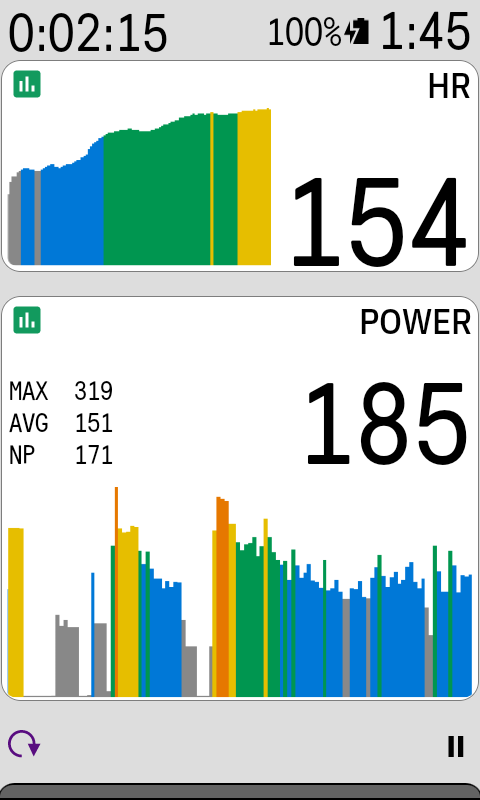
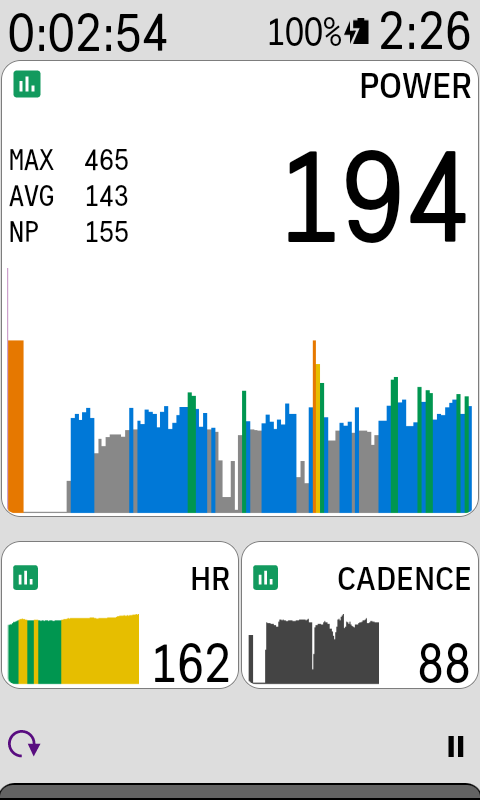
Add cadence and speed graphs

diff --git a/app/src/main/kotlin/com/anthonycastiglia/karoo/powergraph/data/GraphField.kt b/app/src/main/kotlin/com/anthonycastiglia/karoo/powergraph/data/GraphField.kt
@@ -1,8 +1,10 @@
 package com.anthonycastiglia.karoo.powergraph.data
 
 import androidx.annotation.StringRes
+import com.anthonycastiglia.karoo.powergraph.R.string.field_cadence
 import com.anthonycastiglia.karoo.powergraph.R.string.field_heart_rate
 import com.anthonycastiglia.karoo.powergraph.R.string.field_power
+import com.anthonycastiglia.karoo.powergraph.R.string.field_speed
 import com.anthonycastiglia.karoo.powergraph.datatype.GraphScale
 import io.hammerhead.karooext.models.DataType
 import io.hammerhead.karooext.models.UserProfile
@@ -19,7 +21,9 @@ import kotlinx.coroutines.flow.Flow
  * field's preference keys. [aggregationDataTypes] holds a ride-wide stat stream for each
  * [Aggregation] the metric has, and only those are offered or shown. [zones] picks the field's
  * zones from the rider's profile, null for a metric without zones. [smoothing] is null for a
- * field whose current value is never smoothed.
+ * field whose current value is never smoothed. [displayFactor] converts the field's values from
+ * the units Karoo streams them in to the ones the rider sees, chosen from their profile; null
+ * for a metric shown as streamed. [scale] and [previewSource] are in the displayed units.
  */
 class GraphField(
     val typeId: String,
@@ -27,8 +31,9 @@ class GraphField(
     @StringRes val label: Int,
     val dataType: String,
     val aggregationDataTypes: Map<Aggregation, String>,
-    val zones: ((UserProfile) -> List<UserProfile.Zone>)?,
-    val smoothing: SmoothingOptions?,
+    val zones: ((UserProfile) -> List<UserProfile.Zone>)? = null,
+    val smoothing: SmoothingOptions? = null,
+    val displayFactor: ((UserProfile) -> Double)? = null,
     val scale: GraphScale,
     val previewSource: Flow<Double>,
 )
@@ -66,5 +71,42 @@ val GRAPH_FIELDS = listOf(
         smoothing = null,
         scale = GraphScale(floor = 40.0, minSpan = 60.0),
         previewSource = randomWalk(start = 120.0, min = 45.0, max = 190.0, maxStepSize = 2.0),
-    )
+    ),
+    GraphField(
+        typeId = "cadence-graph",
+        settingsKey = "cadence",
+        label = field_cadence,
+        dataType = DataType.Type.CADENCE,
+        aggregationDataTypes = mapOf(
+            Aggregation.MAX to DataType.Type.MAX_CADENCE,
+            Aggregation.AVERAGE to DataType.Type.AVERAGE_CADENCE,
+        ),
+        smoothing = SmoothingOptions(seconds = listOf(1, 3, 10, 30), defaultSeconds = 1),
+        scale = GraphScale(floor = 0.0, minSpan = 60.0),
+        previewSource = randomDoubles(min = 0.0, max = 120.0),
+    ),
+    GraphField(
+        typeId = "speed-graph",
+        settingsKey = "speed",
+        label = field_speed,
+        dataType = DataType.Type.SPEED,
+        aggregationDataTypes = mapOf(
+            Aggregation.MAX to DataType.Type.MAX_SPEED,
+            Aggregation.AVERAGE to DataType.Type.AVERAGE_SPEED,
+        ),
+        displayFactor = ::speedDisplayFactor,
+        scale = GraphScale(floor = 0.0, minSpan = 20.0),
+        previewSource = randomWalk(start = 25.0, min = 10.0, max = 45.0, maxStepSize = 1.5),
+    ),
 )
+
+
+private const val METERS_PER_SECOND_TO_KMH = 3.6
+private const val METERS_PER_SECOND_TO_MPH = 2.236936
+
+/** Karoo streams speed in m/s; riders see km/h or mph, per their profile's distance unit. */
+private fun speedDisplayFactor(profile: UserProfile): Double =
+    when (profile.preferredUnit.distance) {
+        UserProfile.PreferredUnit.UnitType.IMPERIAL -> METERS_PER_SECOND_TO_MPH
+        else -> METERS_PER_SECOND_TO_KMH
+    }

diff --git a/app/src/main/kotlin/com/anthonycastiglia/karoo/powergraph/extension/PowerGraphExtension.kt b/app/src/main/kotlin/com/anthonycastiglia/karoo/powergraph/extension/PowerGraphExtension.kt
@@ -6,11 +6,13 @@ import com.anthonycastiglia.karoo.powergraph.data.PowerGraphSettings
 import com.anthonycastiglia.karoo.powergraph.datatype.ScrollingGraphDataType
 import io.hammerhead.karooext.KarooSystemService
 import io.hammerhead.karooext.extension.KarooExtension
+import io.hammerhead.karooext.models.StreamState
 import io.hammerhead.karooext.models.UserProfile
 import kotlinx.coroutines.CoroutineScope
 import kotlinx.coroutines.Dispatchers
 import kotlinx.coroutines.SupervisorJob
 import kotlinx.coroutines.cancel
+import kotlinx.coroutines.flow.Flow
 import kotlinx.coroutines.flow.map
 
 class PowerGraphExtension : KarooExtension("powergraph", "1.0") {
@@ -20,18 +22,24 @@ class PowerGraphExtension : KarooExtension("powergraph", "1.0") {
 
     override val types by lazy { GRAPH_FIELDS.map(::dataTypeFor) }
 
-    /** [field]'s data type, with its Karoo stream ids opened as flows and its settings wired in. */
+    /**
+     * [field]'s data type, with its Karoo stream ids opened as flows, converted to the displayed
+     * units where [GraphField.displayFactor] says so, and its settings wired in.
+     */
     private fun dataTypeFor(field: GraphField): ScrollingGraphDataType {
         val fieldSettings = settings.forField(field)
+        fun displayStream(dataType: String): Flow<StreamState> {
+            val stream = karooSystem.streamDataFlow(dataType)
+            val displayFactor = field.displayFactor ?: return stream
+            return stream.scaledBy(karooSystem.consumerFlow<UserProfile>().map { displayFactor(it) })
+        }
         return ScrollingGraphDataType(
             extension = extension,
             typeId = field.typeId,
-            dataSource = karooSystem.streamDataFlow(field.dataType),
+            dataSource = displayStream(field.dataType),
             previewSource = field.previewSource,
             scale = field.scale,
-            aggregationSources = field.aggregationDataTypes.mapValues { (_, dataType) ->
-                karooSystem.streamDataFlow(dataType)
-            },
+            aggregationSources = field.aggregationDataTypes.mapValues { (_, dataType) -> displayStream(dataType) },
             aggregations = fieldSettings.aggregations,
             zonesSource = field.zones?.let { zones -> karooSystem.consumerFlow<UserProfile>().map { zones(it) } },
             zoneColorsEnabled = fieldSettings.zoneColors,

diff --git a/app/src/test/kotlin/com/anthonycastiglia/karoo/powergraph/data/ExtensionInfoTest.kt b/app/src/test/kotlin/com/anthonycastiglia/karoo/powergraph/data/ExtensionInfoTest.kt
@@ -1,0 +1,37 @@
+package com.anthonycastiglia.karoo.powergraph.data
+
+import java.io.File
+import javax.xml.parsers.DocumentBuilderFactory
+import org.junit.Assert.assertEquals
+import org.junit.Test
+
+/**
+ * Karoo lists a data field in the profile editor only if extension_info.xml declares it, while the
+ * extension and settings screen build theirs from [GRAPH_FIELDS]. Android resources can't be
+ * generated from Kotlin, so this keeps the two in step: adding a [GraphField] without its XML
+ * entry, or the reverse, fails here instead of on the device.
+ */
+class ExtensionInfoTest {
+
+    @Test
+    fun extensionInfoDeclaresExactlyTheGraphFields() {
+        assertEquals(
+            "typeIds in GRAPH_FIELDS vs. $EXTENSION_INFO_PATH",
+            GRAPH_FIELDS.map { it.typeId }.toSortedSet(),
+            declaredTypeIds().toSortedSet(),
+        )
+    }
+
+    private fun declaredTypeIds(): List<String> {
+        val dataTypes = DocumentBuilderFactory.newInstance()
+            .newDocumentBuilder()
+            .parse(File(EXTENSION_INFO_PATH))
+            .getElementsByTagName("DataType")
+        return (0 until dataTypes.length).map { dataTypes.item(it).attributes.getNamedItem("typeId").nodeValue }
+    }
+
+    private companion object {
+        /** Relative to the app module, the working directory Gradle runs unit tests in. */
+        const val EXTENSION_INFO_PATH = "src/main/res/xml/extension_info.xml"
+    }
+}

diff --git a/app/src/main/kotlin/com/anthonycastiglia/karoo/powergraph/extension/Extensions.kt b/app/src/main/kotlin/com/anthonycastiglia/karoo/powergraph/extension/Extensions.kt
@@ -8,6 +8,7 @@ import kotlinx.coroutines.channels.awaitClose
 import kotlinx.coroutines.channels.trySendBlocking
 import kotlinx.coroutines.flow.Flow
 import kotlinx.coroutines.flow.callbackFlow
+import kotlinx.coroutines.flow.combine
 
 fun KarooSystemService.streamDataFlow(dataTypeId: String): Flow<StreamState> {
     return callbackFlow {
@@ -30,3 +31,18 @@ inline fun <reified T : KarooEvent> KarooSystemService.consumerFlow(): Flow<T> {
         }
     }
 }
+
+/**
+ * These states with every streamed value multiplied by the latest [factor], for converting a
+ * stream to the units the rider sees. Waits for the first factor; states that carry no value
+ * pass through unchanged.
+ */
+fun Flow<StreamState>.scaledBy(factor: Flow<Double>): Flow<StreamState> =
+    combine(factor) { state, multiplier ->
+        when (state) {
+            is StreamState.Streaming -> state.copy(
+                dataPoint = state.dataPoint.copy(values = state.dataPoint.values.mapValues { it.value * multiplier }),
+            )
+            else -> state
+        }
+    }

diff --git a/CLAUDE.md b/CLAUDE.md
@@ -1,6 +1,6 @@
 # PowerGraph
 
-Karoo (Hammerhead bike computer) extension app, built from the `karoo-ext` template repo. Adds two graphical ride data fields — `power-graph` and `heart-rate-graph` — both scrolling bar graphs colored by training zone, implemented as one reusable `ScrollingGraphDataType`.
+Karoo (Hammerhead bike computer) extension app, built from the `karoo-ext` template repo. Adds graphical ride data fields — `power-graph`, `heart-rate-graph`, `cadence-graph` and `speed-graph`, as listed in `GRAPH_FIELDS` — all scrolling bar graphs, colored by training zone where the metric has zones, implemented as one reusable `ScrollingGraphDataType`.
 
 ## Why
 
@@ -9,7 +9,7 @@ Karoo has no built-in scrolling graph field for power or heart rate; this extens
 ## Structure
 
 - `app/src/main/kotlin/.../SettingsActivity.kt`, `screens/SettingsScreen.kt` — settings screen for the data fields, opened from the Karoo's app drawer (it's the launcher activity). One section per `GRAPH_FIELDS` entry, reading and writing straight through to `PowerGraphSettings`. See `docs/projects/settings-activity.md`.
-- `app/src/main/kotlin/.../data/GraphField.kt` — `GRAPH_FIELDS`: one `GraphField` per data field, holding everything that differs between fields (Karoo stream ids, zones, aggregations, smoothing options, labels). The extension and the settings screen both build from this list. Adding a field also needs an entry in `extension_info.xml`.
+- `app/src/main/kotlin/.../data/GraphField.kt` — `GRAPH_FIELDS`: one `GraphField` per data field, holding everything that differs between fields (Karoo stream ids, zones, aggregations, smoothing options, labels). The extension and the settings screen both build from this list. Adding a field also needs an entry in `extension_info.xml`; `ExtensionInfoTest` (`./gradlew testDebugUnitTest`) fails if the two drift apart.
 - `app/src/main/kotlin/.../data/PowerGraphSettings.kt` — `SharedPreferences`-backed settings store; `forField(field)` gives each field's settings as `StateFlow`s so a change applies live to a running field.
 - `app/src/main/kotlin/.../extension/PowerGraphExtension.kt` — registers the extension, maps `GRAPH_FIELDS` to data types and wires each field's settings into its data type.
 - `app/src/main/kotlin/.../extension/Extensions.kt` — `KarooSystemService` → `Flow` adapters.
